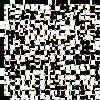
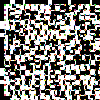
Updated canada.pymy1.png .

diff --git a/canada.py b/canada.py
@@ -32,19 +32,19 @@ moverPieza(outp,0,16,0,8)
 moverPieza(outp,1,4,0,6)
 moverPieza(outp,1,9,0,5)
 moverPieza(outp,2,8,0,4)
-moverPieza(outp,3,0,0,17)
+moverPieza(outp,3,0,0,14)
 moverPieza(outp,4,7,0,3)
-moverPieza(outp,5,3,0,14)
-moverPieza(outp,7,17,0,16)
+moverPieza(outp,5,3,0,17)
+moverPieza(outp,7,17,0,13)
 moverPieza(outp,8,8,0,1)
 moverPieza(outp,10,1,0,9)
 moverPieza(outp,11,11,0,7)
-moverPieza(outp,12,16,0,13)
+moverPieza(outp,12,16,0,16)
 moverPieza(outp,13,6,0,11)
 moverPieza(outp,15,5,0,12)
 moverPieza(outp,16,5,0,2)
-moverPieza(outp,17,4,0,18)
-moverPieza(outp,17,12,0,15)
+moverPieza(outp,17,4,0,15)
+moverPieza(outp,17,12,0,18)
 moverPieza(outp,18,10,0,10)
 moverPieza(outp,19,17,0,19)
 moverPieza(outp,4,14,19,19)
